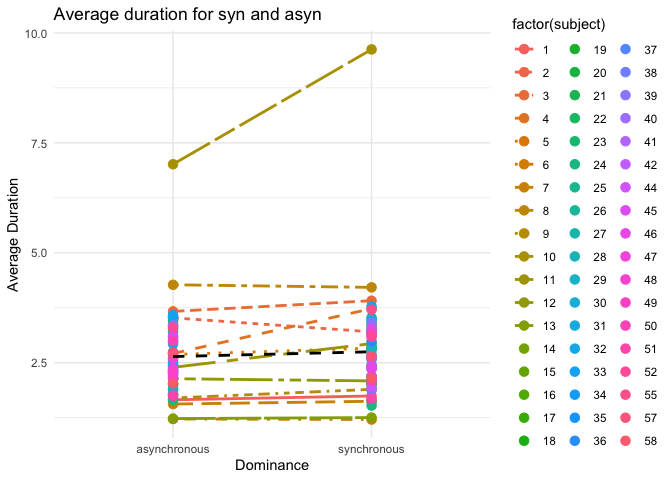
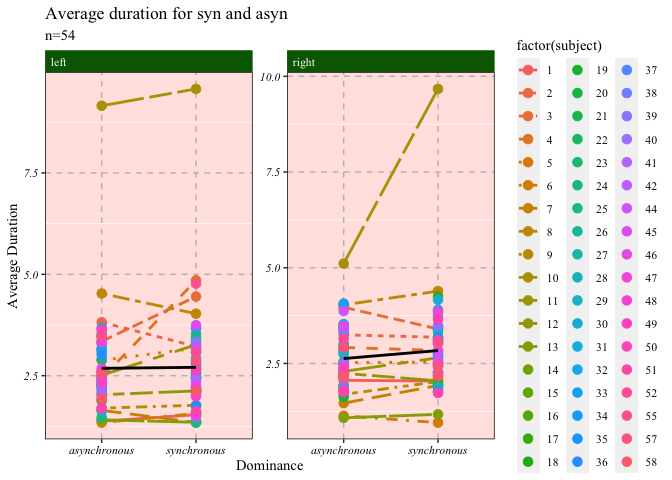
Assignment 13 @nrdowling @ysh627

diff --git a/Analysis_ECG.md b/Analysis_ECG.md
@@ -166,12 +166,12 @@ write.csv(sub_data, "bids_dataset/total_durations.csv",row.names = FALSE)
 ``` r
 average_duration <- final %>%
   filter(!(duration == "n/a" | dominant == "n/a")) %>% 
-  group_by(subject, dominant) %>%
+  group_by(subject, sync_side, dominant) %>%
   summarize(average_duration = mean(as.numeric(duration), na.rm = TRUE))
 ```
 
-    ## `summarise()` has grouped output by 'subject'. You can override using the
-    ## `.groups` argument.
+    ## `summarise()` has grouped output by 'subject', 'sync_side'. You can override
+    ## using the `.groups` argument.
 
 # Total duration for each participant
 
@@ -201,13 +201,13 @@ filtered_data <- final %>%
     ##  Paired t-test
     ## 
     ## data:  average_duration by dominant
-    ## t = -1.8347, df = 53, p-value = 0.07217
+    ## t = -1.7111, df = 107, p-value = 0.08997
     ## alternative hypothesis: true mean difference is not equal to 0
     ## 95 percent confidence interval:
-    ##  -0.22701307  0.01011334
+    ##  -0.25273600  0.01856601
     ## sample estimates:
     ## mean difference 
-    ##      -0.1084499
+    ##       -0.117085
 
 ``` r
 # t = -2.5272(p<0.05)  lme4/glmer
@@ -239,26 +239,26 @@ summary(lmer_model)
     ## Formula: average_duration ~ dominant + (1 | subject)
     ##    Data: average_duration
     ## 
-    ## REML criterion at convergence: 224.4
+    ## REML criterion at convergence: 477.3
     ## 
     ## Scaled residuals: 
     ##     Min      1Q  Median      3Q     Max 
-    ## -3.2746 -0.2165 -0.0573  0.2086  4.8760 
+    ## -5.6456 -0.3954 -0.0449  0.3498  3.0874 
     ## 
     ## Random effects:
     ##  Groups   Name        Variance Std.Dev.
-    ##  subject  (Intercept) 1.03172  1.0157  
-    ##  Residual             0.09434  0.3072  
-    ## Number of obs: 108, groups:  subject, 54
+    ##  subject  (Intercept) 1.0261   1.013   
+    ##  Residual             0.2591   0.509   
+    ## Number of obs: 216, groups:  subject, 54
     ## 
     ## Fixed effects:
     ##                     Estimate Std. Error t value
-    ## (Intercept)          2.64021    0.14441  18.283
-    ## dominantsynchronous  0.10845    0.05911   1.835
+    ## (Intercept)          2.65511    0.14629   18.15
+    ## dominantsynchronous  0.11708    0.06927    1.69
     ## 
     ## Correlation of Fixed Effects:
     ##             (Intr)
-    ## dmnntsynchr -0.205
+    ## dmnntsynchr -0.237
 
 # Conducting paired t-test
 
@@ -266,33 +266,42 @@ summary(lmer_model)
 average_duration[average_duration$dominant == 'synchronous',]
 ```
 
-    ## # A tibble: 54 × 3
-    ## # Groups:   subject [54]
-    ##    subject dominant    average_duration
-    ##      <int> <chr>                  <dbl>
-    ##  1       1 synchronous             1.74
-    ##  2       2 synchronous             3.20
-    ##  3       3 synchronous             3.91
-    ##  4       4 synchronous             3.73
-    ##  5       5 synchronous             2.83
-    ##  6       6 synchronous             1.21
-    ##  7       7 synchronous             1.62
-    ##  8       8 synchronous             4.21
-    ##  9       9 synchronous             1.89
-    ## 10      10 synchronous             9.63
-    ## # ℹ 44 more rows
+    ## # A tibble: 108 × 4
+    ## # Groups:   subject, sync_side [108]
+    ##    subject sync_side dominant    average_duration
+    ##      <int> <chr>     <chr>                  <dbl>
+    ##  1       1 left      synchronous             1.54
+    ##  2       1 right     synchronous             2.04
+    ##  3       2 left      synchronous             3.22
+    ##  4       2 right     synchronous             3.19
+    ##  5       3 left      synchronous             4.45
+    ##  6       3 right     synchronous             3.40
+    ##  7       4 left      synchronous             4.85
+    ##  8       4 right     synchronous             2.84
+    ##  9       5 left      synchronous             3.18
+    ## 10       5 right     synchronous             2.54
+    ## # ℹ 98 more rows
 
 ``` r
 average_duration[average_duration$dominant == 'synchronous',]$average_duration
 ```
 
-    ##  [1] 1.743880 3.201954 3.909915 3.730280 2.831163 1.208105 1.622574 4.213632
-    ##  [9] 1.894324 9.625352 2.934931 2.086315 1.251889 2.117697 2.013234 2.440120
-    ## [17] 3.349135 2.824185 2.017624 1.632808 2.603979 3.285624 3.430582 1.525600
-    ## [25] 2.680354 2.876360 3.527354 2.180540 2.795232 3.485889 3.243082 2.397631
-    ## [33] 3.776834 2.113516 2.193779 2.983784 2.577060 1.877041 3.408991 2.354018
-    ## [41] 2.439674 1.938565 3.112015 3.278496 2.374210 2.624420 2.184329 2.083668
-    ## [49] 3.157358 1.676587 3.088676 3.706757 2.647031 2.149433
+    ##   [1] 1.5381747 2.0408492 3.2204919 3.1850272 4.4514676 3.4017917 4.8506552
+    ##   [8] 2.8405700 3.1788764 2.5374043 1.5669746 0.9558916 1.3458174 1.9246347
+    ##  [15] 4.0288723 4.3904742 1.7714777 2.0256165 9.5714462 9.6705168 3.2625604
+    ##  [22] 2.6489501 2.1240639 2.0469255 1.3510059 1.1711681 2.1362545 2.0999013
+    ##  [29] 2.0662479 1.9612535 2.4456740 2.4342911 2.6635223 4.2484459 2.5605051
+    ##  [36] 3.1142330 2.1455448 1.9104911 1.3568758 1.9318725 2.7010978 2.5068611
+    ##  [43] 3.4209738 3.1640848 3.5305408 3.3248775 1.3456866 1.7584931 2.1389284
+    ##  [50] 3.4488301 2.4371686 3.4253482 3.3569464 3.7313941 2.4876966 1.8755009
+    ##  [57] 2.8590758 2.7361171 2.9254591 4.1643049 3.0878120 3.3932337 2.1778271
+    ##  [64] 2.6439639 3.6703511 3.9003531 2.4664165 1.7883432 1.7605971 2.7407622
+    ##  [71] 2.8004603 3.1746675 2.2277481 3.0630598 1.5832928 2.2509029 3.3293866
+    ##  [78] 3.4913722 2.4428135 2.2652230 2.3625592 2.5137992 1.4868848 2.5909928
+    ##  [85] 3.1837988 3.0241852 3.7446250 2.8173249 2.2501946 2.4943194 1.5512955
+    ##  [92] 3.8479834 2.1046538 2.2514526 1.9905369 2.1788844 2.6446685 3.6543530
+    ##  [99] 1.6248060 1.7305125 3.0733311 3.1033745 4.7708524 3.0321966 2.8552472
+    ## [106] 2.4388150 2.1283307 2.1719119
 
 ``` r
 sync <- average_duration[average_duration$dominant == 'synchronous',]$average_duration
@@ -304,13 +313,13 @@ t.test(sync, async, paired = TRUE)
     ##  Paired t-test
     ## 
     ## data:  sync and async
-    ## t = 1.8347, df = 53, p-value = 0.07217
+    ## t = 1.7111, df = 107, p-value = 0.08997
     ## alternative hypothesis: true mean difference is not equal to 0
     ## 95 percent confidence interval:
-    ##  -0.01011334  0.22701307
+    ##  -0.01856601  0.25273600
     ## sample estimates:
     ## mean difference 
-    ##       0.1084499
+    ##        0.117085
 
 # Conducting one way t-test
 
@@ -322,13 +331,13 @@ t.test(sync, async, paired = TRUE, alternative = 'greater')
     ##  Paired t-test
     ## 
     ## data:  sync and async
-    ## t = 1.8347, df = 53, p-value = 0.03609
+    ## t = 1.7111, df = 107, p-value = 0.04498
     ## alternative hypothesis: true mean difference is greater than 0
     ## 95 percent confidence interval:
-    ##  0.009489886         Inf
+    ##  0.003547533         Inf
     ## sample estimates:
     ## mean difference 
-    ##       0.1084499
+    ##        0.117085
 
 # conducting Generalized Linear Mixed-Effects Models dominant + subject
 
@@ -491,11 +500,21 @@ ggplot(average_duration, aes(x = dominant,
                              color = factor(subject)))+
   geom_line(aes(linetype = factor(subject)), size = 1) +
   geom_point(size = 3) +
-  stat_summary(aes(group = 1), fun = mean, geom = "line", linetype = "dashed", color = "black", size = 1) +
+  stat_summary(aes(group = 1), fun = mean, geom = "line", linetype = "solid", color = "black", size = 1) +
   labs(title = "Average duration for syn and asyn",
        x = "Dominance",
-       y = "Average Duration") +
-  theme_minimal()
+       y = "Average Duration",
+       subtitle = "n=54") +
+  facet_wrap(~sync_side, scales = "free") +
+  theme(panel.background = element_rect(fill = 'mistyrose'),
+        panel.grid.major = element_line(linetype = 'dashed', color="grey"),
+        panel.border = element_rect(colour = "black", fill = NA, linetype = 1),
+        axis.text = element_text(colour = "black", 
+                                 face = "italic", 
+                                 family = "Times New Roman"),
+        strip.background = element_rect(fill = "darkgreen"),
+        strip.text = element_text(color = "white", hjust = 0),
+        text = element_text(family = "Times New Roman"))
 ```
 
     ## Warning: Using `size` aesthetic for lines was deprecated in ggplot2 3.4.0.
@@ -504,7 +523,8 @@ ggplot(average_duration, aes(x = dominant,
     ## Call `lifecycle::last_lifecycle_warnings()` to see where this warning was
     ## generated.
 
-![](Analysis_ECG_files/figure-gfm/line%20plot%20average%20syn%20vs%20asyn-1.png)<!-- -->
+![Average Duration for Syn and
+Asyn](Analysis_ECG_files/figure-gfm/line%20plot%20average%20syn%20vs%20asyn-1.png)
 
 ### Histogram
 
@@ -517,19 +537,46 @@ ggplot(average_duration, aes(x = dominant,
 
 ``` r
 average_diff <- average_duration %>%
-  group_by(subject) %>%
+  group_by(subject, sync_side) %>%
   summarise(diff_duration = mean(average_duration[dominant == "synchronous"]) - mean(average_duration[dominant == "asynchronous"]))
+```
 
+    ## `summarise()` has grouped output by 'subject'. You can override using the
+    ## `.groups` argument.
+
+``` r
 ggplot(average_diff, aes(x = diff_duration)) +
   geom_histogram(binwidth = 0.1, fill = "blue", color = "black", alpha = 0.7) +
   labs(title = "Difference in Average Duration (Syn - Asyn)",
        x = "Difference in Duration",
-       y = "Count") +
-  theme_minimal()
+       y = "Count",
+       subtitle = "n=54") +
+  facet_wrap(~sync_side, scales = "free") +
+  theme(panel.background = element_rect(fill = 'mistyrose'),
+        panel.grid.major = element_line(linetype = 'dashed', color="grey"),
+        panel.border = element_rect(colour = "black", fill = NA, linetype = 1),
+        axis.text = element_text(colour = "black", 
+                                 face = "italic", 
+                                 family = "Times New Roman"),
+        strip.background = element_rect(fill = "darkgreen"),
+        strip.text = element_text(color = "white", hjust = 0),
+        text = element_text(family = "Times New Roman"))
 ```
 
-![](Analysis_ECG_files/figure-gfm/Histogram%20substracted%20difference%20syn%20-%20asyn-1.png)<!-- -->
-\### Below are my experimenting graphs…
+![Histogram for substracted
+difference](Analysis_ECG_files/figure-gfm/Histogram%20substracted%20difference%20syn%20-%20asyn-1.png)
+
+``` r
+#ggplot(average_duration, aes(x = sync_side, y = average_duration, fill = dominant)) +
+#  geom_boxplot() +
+#  labs(title = "Syn vs. Average Duration",
+#       x = "Syn",
+#       y = "Average Duration",
+#       fill = "Sync_side") +
+# coord_cartesian(ylim = c(0, 6))
+```
+
+### Below are my experimenting graphs…
 
 ``` r
 # Still working on graphing
